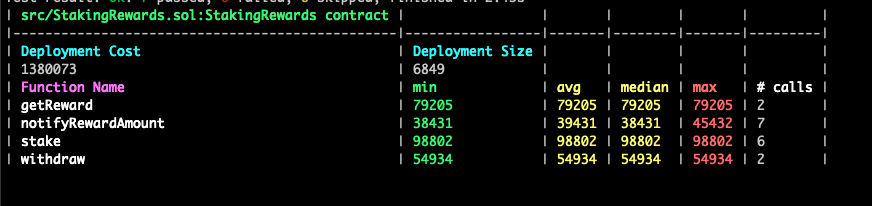
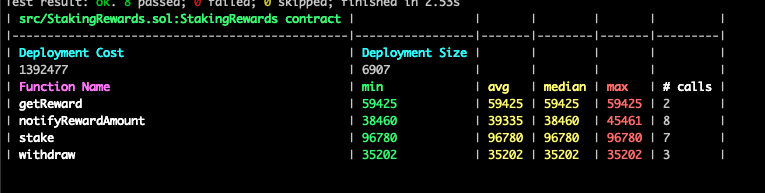
Synthetix

diff --git a/15-16_weeks/real-world-gas-optimization/01_Synthetix_StakingRewards_Report.md b/15-16_weeks/real-world-gas-optimization/01_Synthetix_StakingRewards_Report.md
@@ -1,0 +1,83 @@
+# TraderJoe Token Vesting Optimization Report
+
+## Summary
+
+A contract to earn rewards through staking.
+
+## Scope
+
+The code under review can be found in `src` folder. Contract reviewed is [StakingRewards.sol](src/StakingRewards.sol)
+
+## Tools Used
+- Vscode
+- Foundry
+
+## Gas Optimizations
+
+## [G-01] Optimze storage variables
+Gas optimization here was focused on optimizing storage variables. 
+
+### Initial storage variables:
+```solidity
+    IERC20 public rewardsToken;
+    IERC20 public stakingToken;
+    // ---------------------------------------- ^ slot i
+    uint256 public periodFinish = 0;
+    // ---------------------------------------- ^ slot i + 1
+    uint256 public rewardRate = 0;
+    // ---------------------------------------- ^ slot i + 2
+    uint256 public rewardsDuration = 7 days;
+    // ---------------------------------------- ^ slot i + 3
+    uint256 public lastUpdateTime;
+    // ---------------------------------------- ^ slot i + 4
+    uint256 public rewardPerTokenStored;
+    // ---------------------------------------- ^ slot i + 5
+    
+    mapping(address => uint256) public userRewardPerTokenPaid;
+    // ---------------------------------------- ^ slot i + 6
+    mapping(address => uint256) public rewards;
+    // ---------------------------------------- ^ slot i + 7
+    
+    uint256 private _totalSupply;
+    // ---------------------------------------- ^ slot i + 8
+    mapping(address => uint256) private _balances;
+    // ---------------------------------------- ^ slot i + 9
+```
+
+So initially we are using 9 slots to store current variables.
+
+### Optimized storage variables:
+```solidity
+    IERC20 public rewardsToken;
+    IERC20 public stakingToken;
+    address public rewardsDistribution;
+    uint64 public periodFinish;
+    uint64 public lastUpdateTime;
+    // ---------------------------------------- ^ slot i
+    uint128 public rewardPerTokenStored;
+    uint64 public rewardsDuration = 7 days;
+    // ---------------------------------------- ^ slot i + 1
+    uint256 public rewardRate;
+    // ---------------------------------------- ^ slot i + 2
+    uint256 private _totalSupply;
+    // ---------------------------------------- ^ slot i + 3
+    mapping(address => UserState) public userStates;
+    // ---------------------------------------- ^ slot i + 4
+```
+
+- all `timestamp` types were adjusted to have `uint64` type, 
+  - max value is `18446744073709551616`, when converted to date it is on `Sunday, July 21, 2554 11:34:33.709 PM`
+- most of the token balance, reward fields are now `uint128` 
+  - uin128 supports up to `340282366920938463463374607431768211456`, 
+    - divided by `1e18` this is `340282366920938487808` tokens, which is suitable for any normal vesting usage
+- also variables are ordered in a way to fits in fewer slots
+
+## Gas report
+
+### Original
+
+![01_syntetix_staking_rewards_original.png](images%2F01_syntetix_staking_rewards_original.png)
+
+### Optimized
+
+![01_syntetix_staking_rewards_optimization.png](images%2F01_syntetix_staking_rewards_optimization.png)

diff --git a/15-16_weeks/real-world-gas-optimization/02_TraderJoeTokenVesting_Report.md b/15-16_weeks/real-world-gas-optimization/02_TraderJoeTokenVesting_Report.md
@@ -34,6 +34,14 @@ In order to achieve this we need to have token index sequentially generated and 
 `BitMaps.BitMap private tokenRevocation` storage variable has been introduced where revoked token info is saved. In order to support this we
 have added `addToken` method where `owner` adds token definition to contract and then index is assigned.
 
+BitMaps pack 256 booleans across each bit of a single 256-bit slot of uint256 type. Hence, booleans corresponding to 256 sequential indices would only consume a single slot, unlike the regular bool which would consume an entire slot for a single value.
+
+This results in gas savings in two ways:
+
+- Setting a zero value to non-zero only once every 256 times 
+- Accessing the same warm slot for every 256 sequential indices
+
+
 ## Gas report
 
 ### Original
